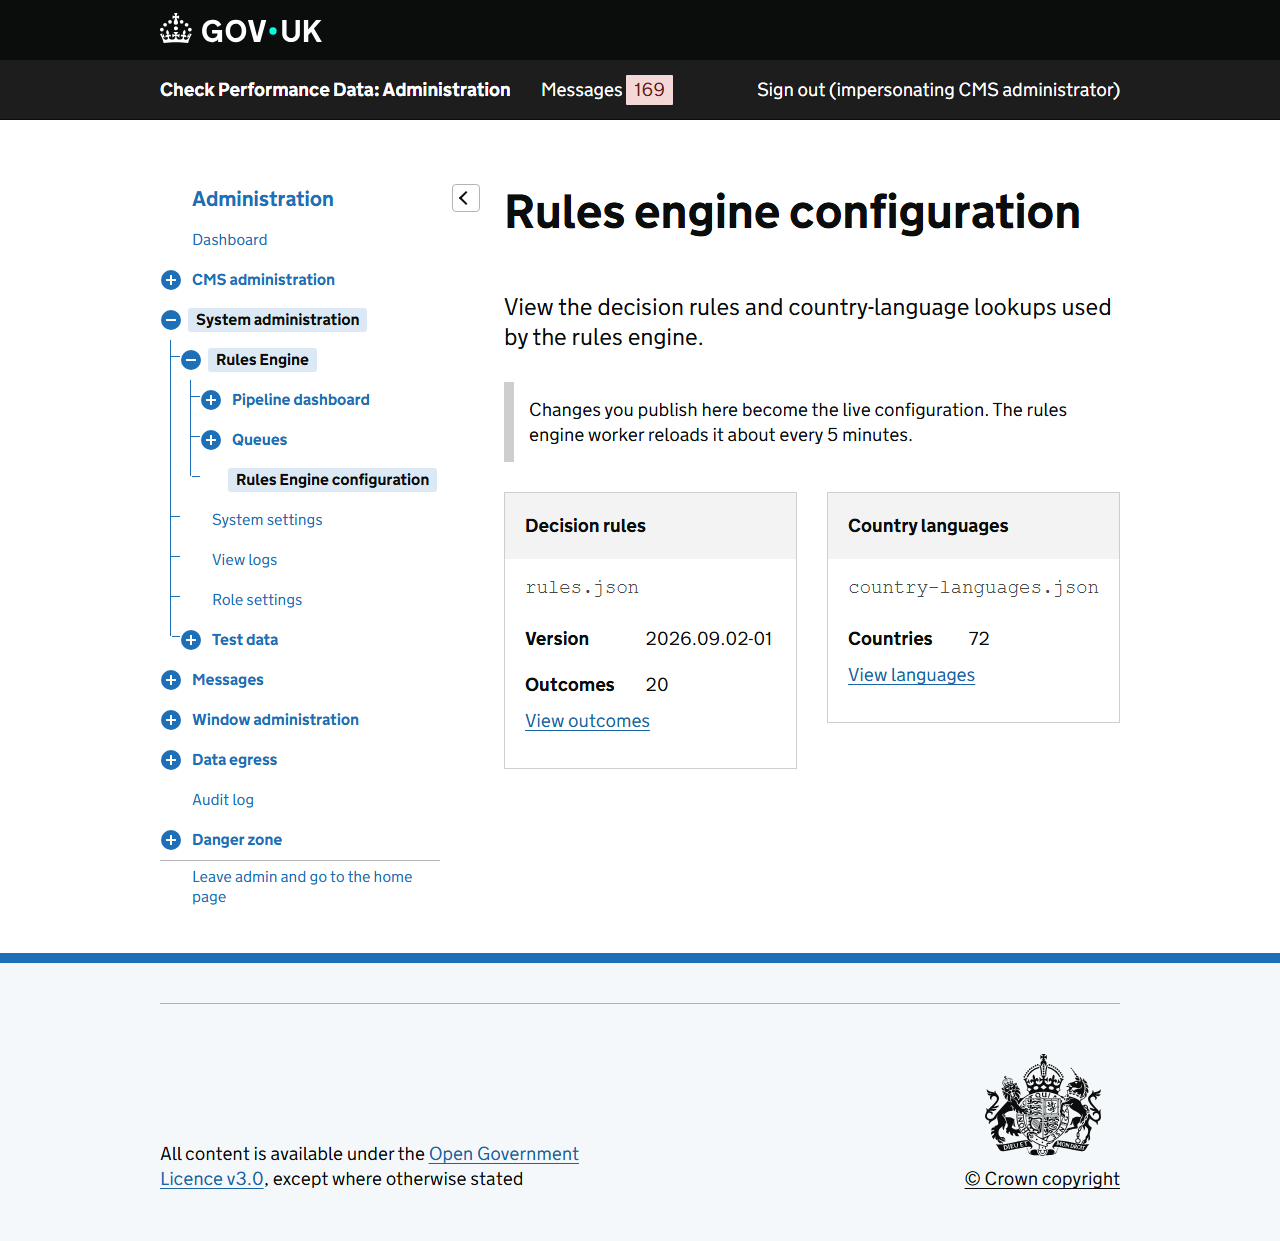
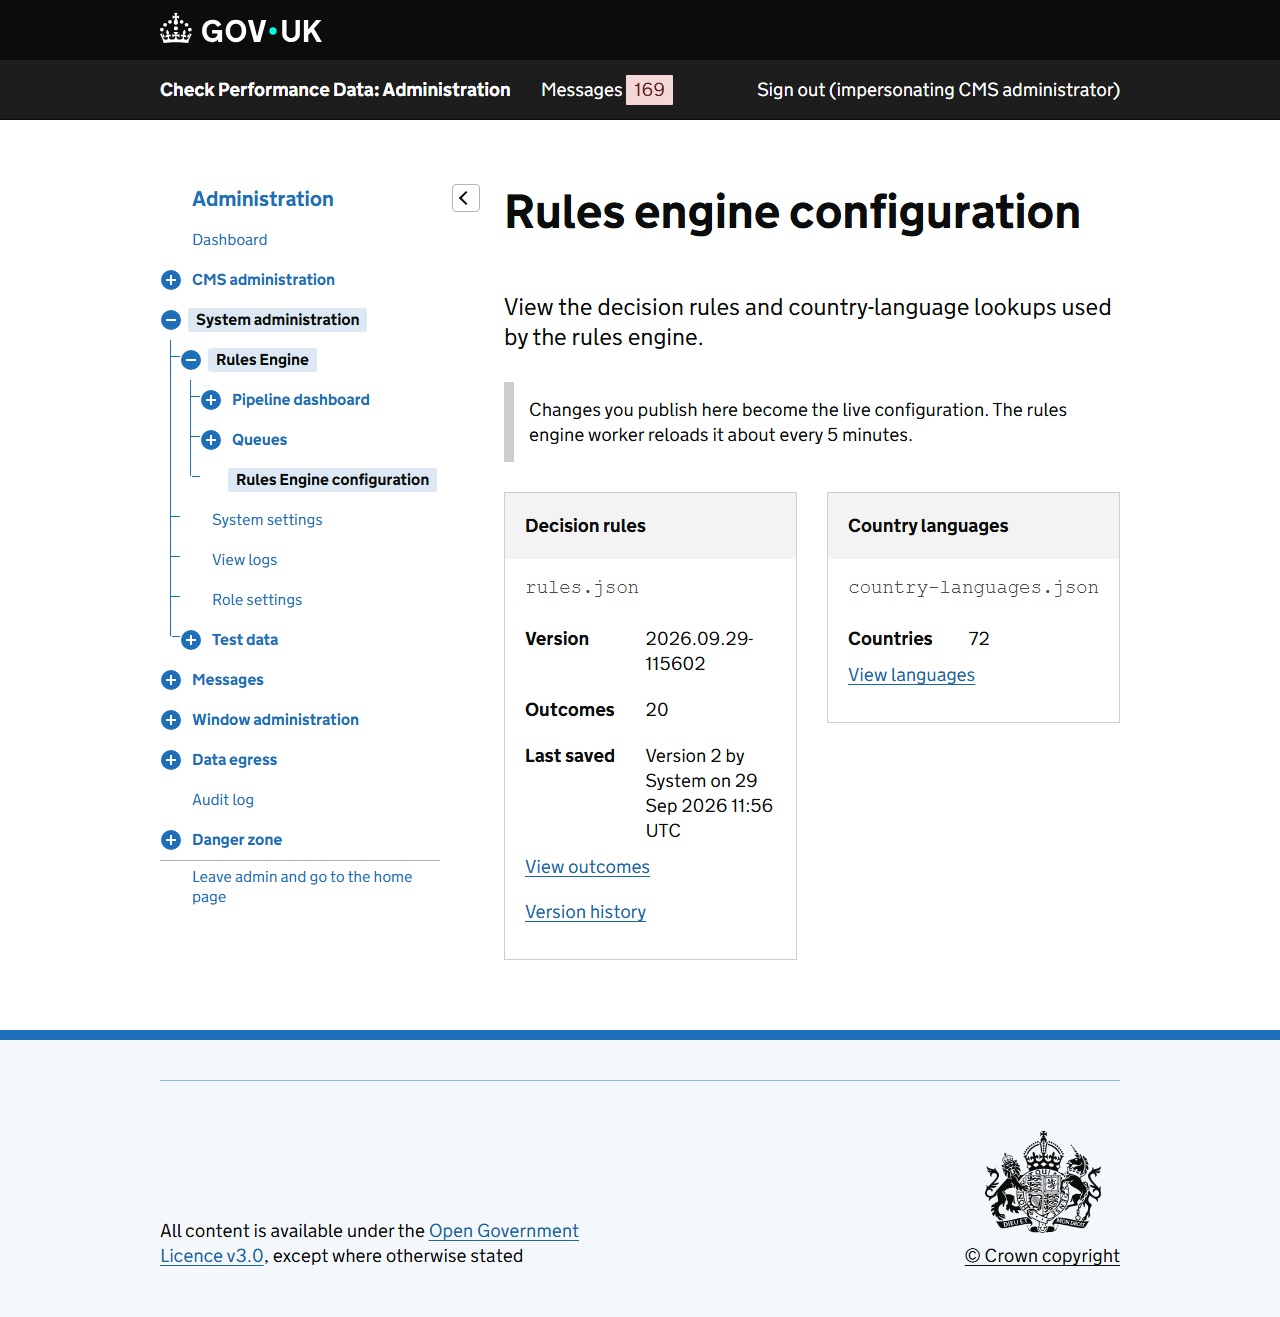
Admin user guide: system administration and messages chapters

diff --git a/docs/user-guides/admin-user-guide.md b/docs/user-guides/admin-user-guide.md
@@ -329,3 +329,290 @@ Each list has a link to a full screen, such as **View all top queries** and **Vi
 A session screen shows every search one visitor made, with the time, query, scope, number of results and how long each search took. The session screen also lets you delete that visitor's data.
 
 > **Warning** Select **Delete this session's data** to permanently delete every search event and support message from that session. The service asks you to confirm with *Delete this session's data?* This cannot be undone. The deletion is recorded in the audit log.
+
+
+## 5. System administration
+
+This group holds the tools that keep the service running: the rules engine, system settings, logs and role settings.
+
+### Rules Engine: what it does
+
+When a school submits a change request, the rules engine decides what should happen to it. It gives each request one of 3 outcomes:
+
+- **Auto-approved**: the request clearly meets the conditions to be accepted.
+- **Auto-rejected**: the request clearly does not qualify.
+- **Scrutiny**: the request goes to a caseworker for a decision.
+
+The engine takes routine, clear-cut requests off caseworkers' desks. If it has any doubt, it chooses Scrutiny. A missing answer, an unreadable value, a reason it does not recognise or an unexpected error all lead to Scrutiny. The engine never approves or rejects a request when it is unsure.
+
+After the engine decides, the service creates a Zendesk ticket for the request. The Department controls the rules the engine follows. You can view and change them in *Rules Engine configuration*, later in this chapter.
+
+### Pipeline dashboard
+
+Use the *Pipeline dashboard* to see whether requests are moving through the service, and how quickly.
+
+![The Pipeline dashboard, showing a health strip, three summary figures, a live board of the pipeline stages and charts](admin/images/pipeline-dashboard.png)
+*The Pipeline dashboard, after 5 test requests had gone through the rules engine.*
+
+The screen shows:
+
+- **A health strip** with 3 indicators: *Overall*, *Rules engine queue* and *Zendesk queue*. Each says whether messages are flowing, or whether a queue is backing up or stalled. The thresholds for amber and red are system settings (see Appendix C).
+- **A status sentence**, such as *All systems healthy*, with how many requests have been processed today and how long a typical request takes to reach Zendesk.
+- **3 figures**: Processed today, Average end-to-end and Current depths (all queues).
+- **The live board**, a picture of the pipeline. Requests move from Submit to Rules-queue, to Rules engine, to Zendesk-queue and to Zendesk ticket. Below them are the 3 outcomes and the dead-letter queue. Select **Pause** to freeze the moving requests while you read the board. Select **Resume** to start them again.
+- **Pipeline state** and **Recent transitions**: how many messages are waiting at each stage, and the latest steps taken by recent requests.
+- **Charts**: Throughput, Decision mix, Decision mix over time and Time at each stage. Choose a **Time range** (Last hour, Last 6 hours, Last 24 hours or Last 7 days) and a **Granularity**, then select **Update charts**. Each chart has a link to view its data as a table.
+
+Select **Export this view (CSV)** to download the figures. Select **Print or save as PDF** to print the page.
+
+Outside production, a **Demo** panel is also available. It lets testers send test requests through the pipeline. It does not appear in production.
+
+#### Transactions
+
+*Transactions* lists every message recorded passing through the queues, newest first.
+
+![The Transactions screen, listing pipeline steps with time, reference, stage, queue, decision and latency](admin/images/pipeline-transactions.png)
+*The Transactions screen.*
+
+To find a request:
+
+1. Enter the start of its reference in **Search by reference**. The search matches the start of the reference and ignores capital letters.
+2. If you want, enter **From (UTC)** and **To (UTC)** dates and times.
+3. Select **Search**.
+
+Each row shows the time, reference, stage, queue, decision and latency in milliseconds. Select a reference to see the journey that request took through the pipeline. The journey page shows the time of each stage and how long the request waited at it.
+
+#### Replay
+
+*Replay* lets you watch recent submissions move through the pipeline stages one step at a time. Use it to see how a request travelled, or to explain the process to someone.
+
+1. Optionally, enter **From (UTC)** and **To (UTC)** and select **Filter**. Select **Reset to recent** to go back to the latest submissions.
+2. Tick one or more submissions. Select **Select all on this page** to tick them all.
+3. Select **Play selected**.
+
+Replay only shows what the service has already recorded. It does not send anything again.
+
+#### Share links and the wallboard
+
+Share links let you show the pipeline to someone without them signing in. *Share links* has no entry in the menu. Open it by adding `/admin/share` to the address of the service. You need the *share-admin* section for your role (see Appendix B).
+
+1. Enter a **Label** so you can recognise the link later.
+2. Choose the **Surface**: *Share link* for a read-only overview of the pipeline, or *Wallboard* for a display for a wall screen.
+3. Select **Generate link**.
+4. Copy the link straight away. The service says *Copy this link now — it is shown once and cannot be retrieved again.*
+
+The link shows totals only. It contains no pupil information. Anyone who has the link can open it without signing in. The *Issued links* list shows each link's label, surface, when it was created and whether it is live.
+
+> **Warning** Select **Revoke** to switch a link off. The service does not ask you to confirm. Anyone who then uses the link sees a *Page not found* screen. You cannot switch a revoked link back on. Generate a new one instead.
+
+### Queues
+
+Use *Queues* to see how many messages are waiting to be processed.
+
+![The Queues screen, showing the rules engine queue, the Zendesk queue and the dead-letter queue](admin/images/queues.png)
+*The Queues screen.*
+
+The screen has a section for each queue: *Rules engine queue*, *Zendesk queue* and *Dead-letter queue*. For the first two it shows the number of messages waiting, the age of the oldest message and the 5 oldest messages. The figures are taken when the page loads. Select **Refresh** to update them.
+
+Select **View all messages** to open the full list for a queue. The list shows the messages waiting, oldest first.
+
+![The Rules engine queue screen, showing that no messages are waiting](admin/images/queue-rules-engine.png)
+*The Rules engine queue screen when no messages are waiting.*
+
+Select a message to inspect it. The screen hides pupil identifiers. For the dead-letter queue, select **View dead-letter queue**. Chapter 6 explains it.
+
+### Rules Engine configuration
+
+Use *Rules Engine configuration* to view and change the decision rules the engine follows, and the country language list it uses.
+
+![The Rules engine configuration screen, showing the Decision rules and Country languages cards](admin/images/rules-config.png)
+*The Rules engine configuration screen.*
+
+The screen has 2 cards:
+
+- **Decision rules** shows the rules version, the number of outcomes, and when and by whom they were last saved. Select **View outcomes** to change the rules. Select **Version history** to see earlier versions.
+- **Country languages** shows the number of countries in the list. Select **View languages** to change the list.
+
+Changes you publish here become the live rules. The rules engine picks them up about every 5 minutes.
+
+An **Upload** link appears on a card only while that configuration is empty. It lets you publish a first version from a file. Once a configuration holds data, you change it on the screens described below.
+
+#### Decision outcomes and branches
+
+An outcome is a reason a school gives for a change, such as *Deceased* or *Not on roll*. Each outcome has one or more branches. A branch is a rule with a decision.
+
+![The Decision outcomes screen, listing each outcome with its key and number of branches](admin/images/rules-outcomes.png)
+*The Decision outcomes screen.*
+
+Select an outcome to see its branches.
+
+![The Inclusion outcome, showing three branches with their decisions and conditions](admin/images/rules-outcome-branches.png)
+*An outcome with 3 branches. The engine checks branches from top to bottom.*
+
+The engine checks the branches from top to bottom. The first branch whose condition is true decides the outcome. The last branch, *Otherwise*, always matches and always sends the request to Scrutiny.
+
+To add an outcome:
+
+1. Select **Add outcome**.
+2. Enter an **Outcome key**. Use letters and numbers only, and start with a letter. The key is used in the rules and on tickets.
+3. Optionally, enter a **Label**. This is the name shown in admin. It defaults to the key.
+4. Select **Create outcome**.
+
+The service adds a catch-all Scrutiny branch for you. The request form does not use a new outcome until the development team connects its key to the form. Until then, the outcome exists in the rules, but no request can use it.
+
+To add a branch to an outcome:
+
+1. Open the outcome, then select **Add branch**.
+2. Choose the **Decision**: AutoApproved, AutoRejected or Scrutiny.
+3. Build the **Condition**. Under **Match**, choose how conditions combine: *All of these*, *Any of these* or *Not (one condition)*. Select **Add condition** to add a test. Select **Add group** to nest a group of conditions.
+4. Select **Save branch**.
+
+To change a branch, select its edit icon. To reorder branches, use the up and down icons. To remove a branch, select its remove icon. The service then asks *Remove branch?* Select **Remove branch** to confirm. It records a new version, and you can roll it back.
+
+#### Deleting an outcome
+
+1. Open the outcome, then select **Delete this outcome**.
+2. Type the outcome key in the box to confirm.
+3. Select **Delete outcome**.
+
+> **Warning** Deleting an outcome removes it and all its branches from the rules. The service records a new version, so you can roll the change back from the version history. You cannot delete an outcome while the request form still routes to it. The outcome screen tells you when that is the case.
+
+#### Country languages
+
+*Country languages* maps each country to its official languages. One of the rule conditions uses it to check a pupil's first language.
+
+![The Country languages screen, listing countries with their code and official languages](admin/images/rules-lookups.png)
+*The top of the Country languages screen. The list continues below.*
+
+- To add a country, select **Add country**. Enter the **Country code** and one or more **Official languages**, using **Add language** for each extra one. Select **Save**.
+- To change a country, select its edit icon. Change the languages, then select **Save**.
+- To remove a country, select its remove icon.
+
+> **Warning** The remove icon removes the country straight away. The service does not ask you to confirm. To bring it back, roll back to an earlier version.
+
+#### Version history and rollback
+
+Every change to the decision rules is saved as a new version. Select **Version history** on the *Rules Engine configuration* screen to see them.
+
+![The Version history screen for the decision rules, listing two saved versions](admin/images/rules-history.png)
+*The version history for the decision rules.*
+
+Each version shows when it was saved and by whom. Select **View JSON** to see exactly what was saved. To go back to a version:
+
+1. Open the version.
+2. Select **Roll back to this version**.
+3. On the confirmation screen, read what will happen, then select **Roll back**.
+
+A rollback does not erase anything. It saves a new version with the older content, so you can roll forward again.
+
+#### If someone else changed the rules first
+
+If someone else saved a change while you were editing, the service saves nothing. It shows a message such as *The rules were changed by someone else. Nothing was saved — reload and try again.* Reload the page, check what has changed, and make your change again.
+
+### System settings
+
+Use *System settings* to change how the service behaves without a new release.
+
+![The top of the System settings screen, showing a filter box and the first settings with their values and Save buttons](admin/images/system-settings.png)
+*The top of the System settings screen. The list continues below.*
+
+The screen lists every setting with a description, its default and its current value. Enter words in **Filter settings** to find one by its name or value.
+
+To change a setting:
+
+1. Change its value. A tick box switches a setting on or off.
+2. Select **Save** beside that setting.
+
+Each setting saves on its own. To go back to the default, clear the value and select **Save**.
+
+Appendix C explains every setting in plain English.
+
+### View logs
+
+Use *View logs* to see what the service has recorded about its own activity, and to download it. This is mainly for the development team when something has gone wrong.
+
+![The top of the View logs screen, showing the filters for level, category, dates and search text](admin/images/app-logs.png)
+*The top of the View logs screen. The list of log entries continues below.*
+
+The list shows the newest entries first, 20 to a page. Each entry has a timestamp, a level, a category, a message and the request that caused it.
+
+To narrow the list, use the filters: **Level**, **Category**, **From (UTC)**, **To (UTC)** and **Search**. Search looks in the message and any error text, and ignores capital letters. Select **Apply filters**, or select **Reset** to clear them.
+
+Select **Download CSV** to download the entries that match your filters.
+
+> **Warning** Select **Clear all logs** to delete every log entry. The service asks you to confirm with *Clear all application logs?* This cannot be undone. New entries are recorded as normal afterwards.
+
+### Role settings
+
+Use *Role settings* to choose which admin sections each role can see. Chapter 1 explains roles.
+
+![The Role settings screen, showing a grid of sections down the side and roles across the top, with tick boxes](admin/images/role-settings.png)
+*The Role settings screen.*
+
+The grid has one row for each admin section and one column for each role. The section names are short codes, such as `content-pages`. Appendix B explains what each one unlocks.
+
+To change what a role can see:
+
+1. Tick the box for each section the role should have. Clear the box for each section it should not have.
+2. Select **Save role access**.
+
+The `cypmd_admin` column is fixed. Administrators always have every section.
+
+To add a role, type its name in **Register a new role**, exactly as it appears in DfE Sign-In. The role gets its own column with no boxes ticked. Tick the sections it needs, then select **Save role access**.
+
+A change takes effect straight away on the server you saved it on. On other servers it takes effect within about a minute.
+
+### Test data
+
+The *Test data* group has 2 tools for filling an environment with sample content. Use them to test or demonstrate the service.
+
+- **Seed sample CMS pages** adds a set of published sample pages under Wiki, Help, Support and Guidance. It also restores the pages used for testing. It is available in every environment except production.
+- **Seed sample search data** adds made-up search events and feedback messages, so that Search analytics has something to show. You choose how far back the data goes: the last 24 hours, week, month, quarter or year. It is available in development, review and QA environments only.
+
+> **Warning** Sample data looks like real data. Search events and feedback messages you seed appear in Search analytics and in the Search feedback inbox, and cannot be told apart from real ones. Do not seed sample data in an environment where you need to see real figures.
+
+## 6. Messages
+
+This group holds what the service sends to you: feedback from people who used the search, and requests that could not be processed.
+
+### Search feedback
+
+*Search feedback* lists messages people sent from the search results page, using the link that asks whether the results were what they expected.
+
+![The Search feedback screen, listing messages with when they were sent, the session, and a preview of the message](admin/images/messages-inbox.png)
+*The Search feedback screen.*
+
+The list shows 20 messages a page. Each row shows when the message was sent, the session it came from, an *Email* tag if the person gave an email address, whether it is *New* or *Read*, and the start of the message.
+
+- To find messages, enter words in **Filter by first-line preview** and select **Apply filter**. The filter matches anywhere in the message and ignores capital letters. Select **Reset** to clear it.
+- To sort, select **Submitted** or **Read** in the column headings.
+
+Select a message to open it. The message screen shows what the person was looking for and what they got. It also shows their last search on the site, how many results came back and what they were. Under *Message details* it shows when it was sent, the session, their email address (or that they did not want to be contacted) and the status.
+
+- Select **Mark as read** when you have dealt with the message. Opening a message does not mark it as read.
+- Select **View this session's searches** to see everything else that person searched for.
+
+The Messages badge in the header counts messages that are still *New*.
+
+### Dead Letter Queue
+
+A dead-lettered message is a request that the pipeline could not process, even after several attempts. The service moves it to the dead-letter queue so that it is not lost. Someone then decides whether to try it again or to delete it.
+
+![The Dead-letter queue screen, listing three messages with Redrive and Purge buttons on each row](admin/images/dead-letter-queue.png)
+*The Dead-letter queue screen.*
+
+Each row shows the message ID, the queue it came from, its reference, how many attempts were made, the reason it failed and when it was dead-lettered.
+
+To try a message again:
+
+1. Select **Redrive** on its row. To try several, tick them and select **Redrive selected**.
+2. Read the confirmation. The service asks *Requeue this message?* and warns that trying again may create a downstream effect, such as a support ticket.
+3. Select **Yes, requeue**.
+
+The message goes back to the queue it came from for another attempt.
+
+To open a message, select its ID. The detail screen shows the reason, the number of attempts and the payload, with a **Redrive** button. The payload hides pupil identifiers. An administrator can allow the full payload to be shown by turning on the *Dlq:FullPayloadEnabled* setting in System settings. Every time someone views a full payload, the service records it in the audit log.
+
+> **Warning** Select **Purge** to delete a message from the dead-letter queue for good. To delete several, tick them and select **Purge selected**. The service asks you to confirm with *Purge this message?* This cannot be undone. The service keeps a record in the audit log that you purged it. Do not purge a message until you know that the request it carries has been dealt with another way.
+
+The dead-letter queue also sends an email alert when it holds too many messages, and deletes old messages after a set number of days. Both are system settings (see Appendix C).
